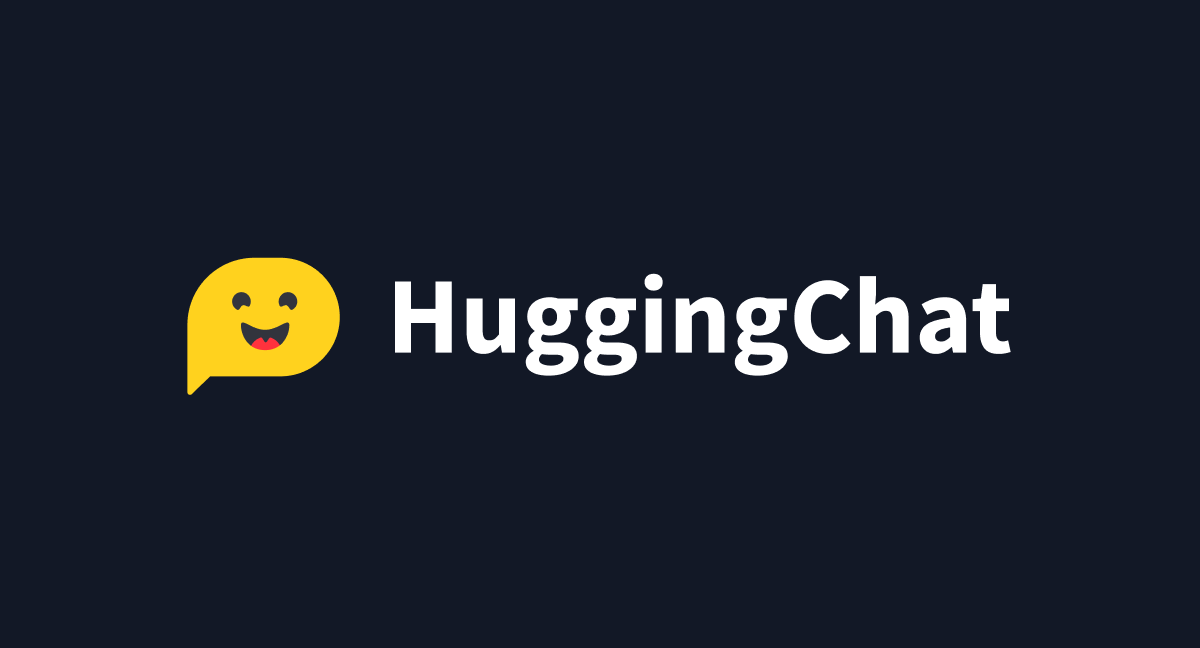
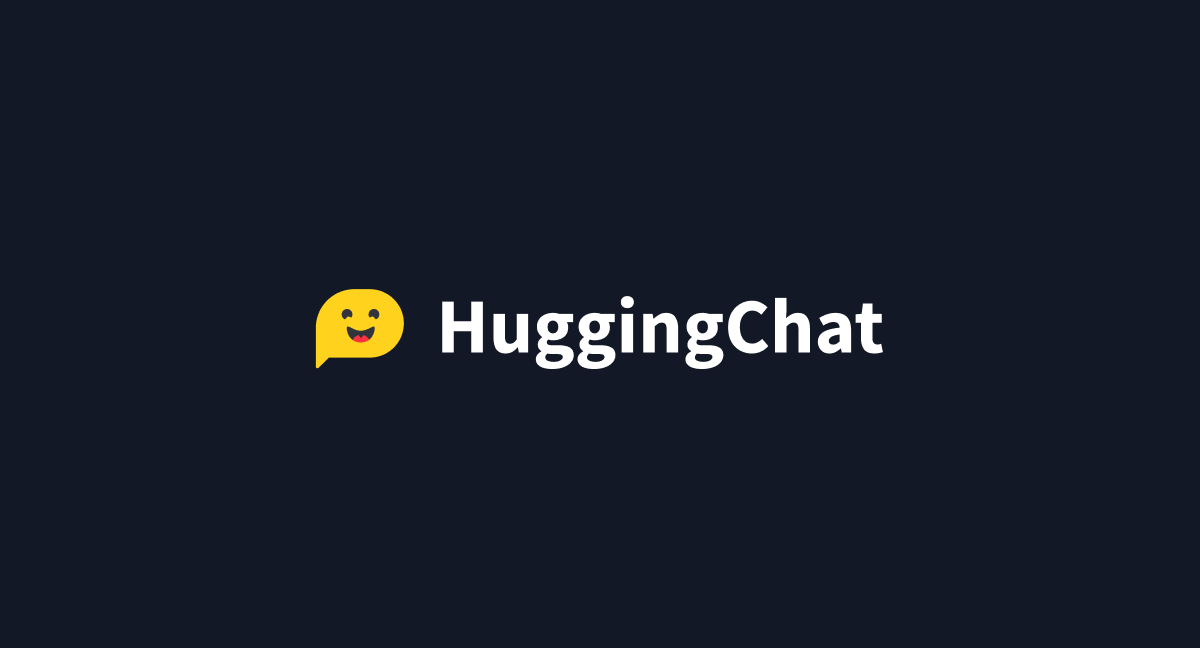
Manifest update (#513)
* display = standalone

* meta theme-color

* mobile rounded menu

* update images

* thumbnail

fit in a square too

Changed region(s): [[0.1542, 0.3704, 0.8633, 0.6173]]

diff --git a/src/routes/+layout.svelte b/src/routes/+layout.svelte
@@ -128,33 +128,17 @@
 	/>
 	<link
 		rel="icon"
-		href="{PUBLIC_ORIGIN || $page.url.origin}{base}/{PUBLIC_APP_ASSETS}/favicon.svg"
-		type="image/svg+xml"
+		href="{PUBLIC_ORIGIN || $page.url.origin}{base}/{PUBLIC_APP_ASSETS}/favicon.ico"
+		sizes="32x32"
 	/>
 	<link
 		rel="icon"
-		href="{PUBLIC_ORIGIN || $page.url.origin}{base}/{PUBLIC_APP_ASSETS}/favicon.png"
-		type="image/png"
-	/>
-	<!-- Icon Support for iOS Bookmark Home Screen -->
-	<link
-		rel="apple-touch-icon"
-		href="{PUBLIC_ORIGIN || $page.url.origin}{base}/{PUBLIC_APP_ASSETS}/touch-icon-ipad-retina.png"
-		sizes="167x167"
-		type="image/png"
+		href="{PUBLIC_ORIGIN || $page.url.origin}{base}/{PUBLIC_APP_ASSETS}/icon.svg"
+		type="image/svg+xml"
 	/>
 	<link
 		rel="apple-touch-icon"
-		href="{PUBLIC_ORIGIN || $page.url.origin}{base}/{PUBLIC_APP_ASSETS}/touch-icon-ipad.png"
-		sizes="152x152"
-		type="image/png"
-	/>
-	<link
-		rel="apple-touch-icon"
-		href="{PUBLIC_ORIGIN ||
-			$page.url.origin}{base}/{PUBLIC_APP_ASSETS}/touch-icon-iphone-retina.png"
-		sizes="180x180"
-		type="image/png"
+		href="{PUBLIC_ORIGIN || $page.url.origin}{base}/{PUBLIC_APP_ASSETS}/apple-touch-icon.png"
 	/>
 	<link
 		rel="manifest"

diff --git a/src/app.html b/src/app.html
@@ -3,12 +3,16 @@
 	<head>
 		<meta charset="utf-8" />
 		<meta name="viewport" content="width=device-width, initial-scale=1, user-scalable=no" />
+		<meta name="theme-color" content="rgb(249, 250, 251)" />
 		<script>
 			if (
 				localStorage.theme === "dark" ||
 				(!("theme" in localStorage) && window.matchMedia("(prefers-color-scheme: dark)").matches)
 			) {
 				document.documentElement.classList.add("dark");
+				document
+					.querySelector('meta[name="theme-color"]')
+					.setAttribute("content", "rgb(26, 36, 50)");
 			}
 
 			// For some reason, Sveltekit doesn't let us load env variables from .env here, so we load it from hooks.server.ts

diff --git a/src/lib/switchTheme.ts b/src/lib/switchTheme.ts
@@ -1,10 +1,14 @@
 export function switchTheme() {
 	const { classList } = document.querySelector("html") as HTMLElement;
+	const metaTheme = document.querySelector('meta[name="theme-color"]') as HTMLMetaElement;
+
 	if (classList.contains("dark")) {
 		classList.remove("dark");
+		metaTheme.setAttribute("content", "rgb(249, 250, 251)");
 		localStorage.theme = "light";
 	} else {
 		classList.add("dark");
+		metaTheme.setAttribute("content", "rgb(26, 36, 50)");
 		localStorage.theme = "dark";
 	}
 }

diff --git a/src/lib/components/MobileNav.svelte b/src/lib/components/MobileNav.svelte
@@ -45,7 +45,7 @@
 	>
 </nav>
 <nav
-	class="fixed inset-0 z-30 grid max-h-screen grid-cols-1 grid-rows-[auto,auto,1fr,auto] bg-white bg-gradient-to-l from-gray-50 dark:bg-gray-900 dark:from-gray-800/30 {isOpen
+	class="fixed inset-0 z-30 grid max-h-screen grid-cols-1 grid-rows-[auto,auto,1fr,auto] bg-white bg-gradient-to-l from-gray-50 dark:bg-gray-900 dark:from-gray-800/30 max-sm:rounded-t-2xl {isOpen
 		? 'block'
 		: 'hidden'}"
 >
